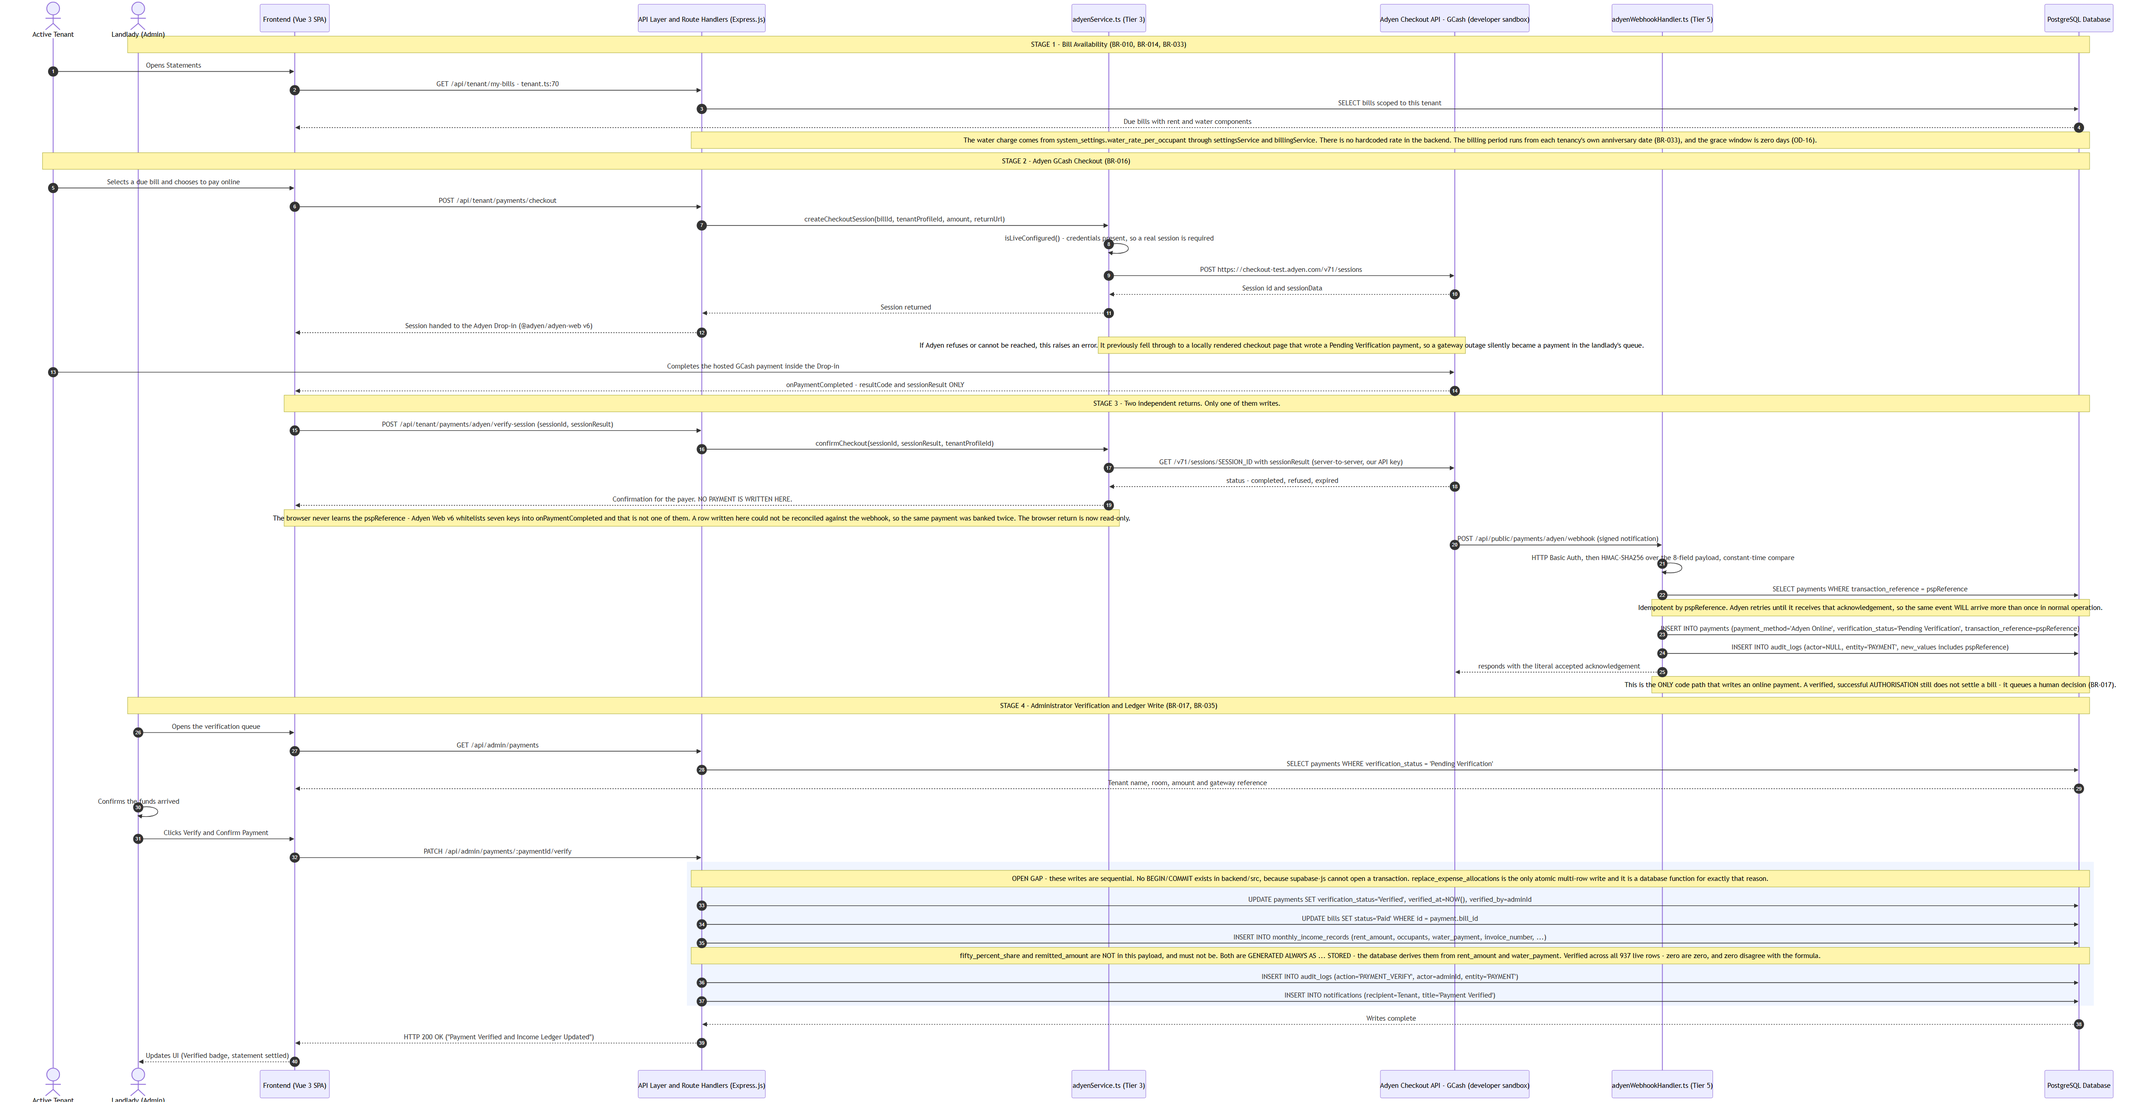
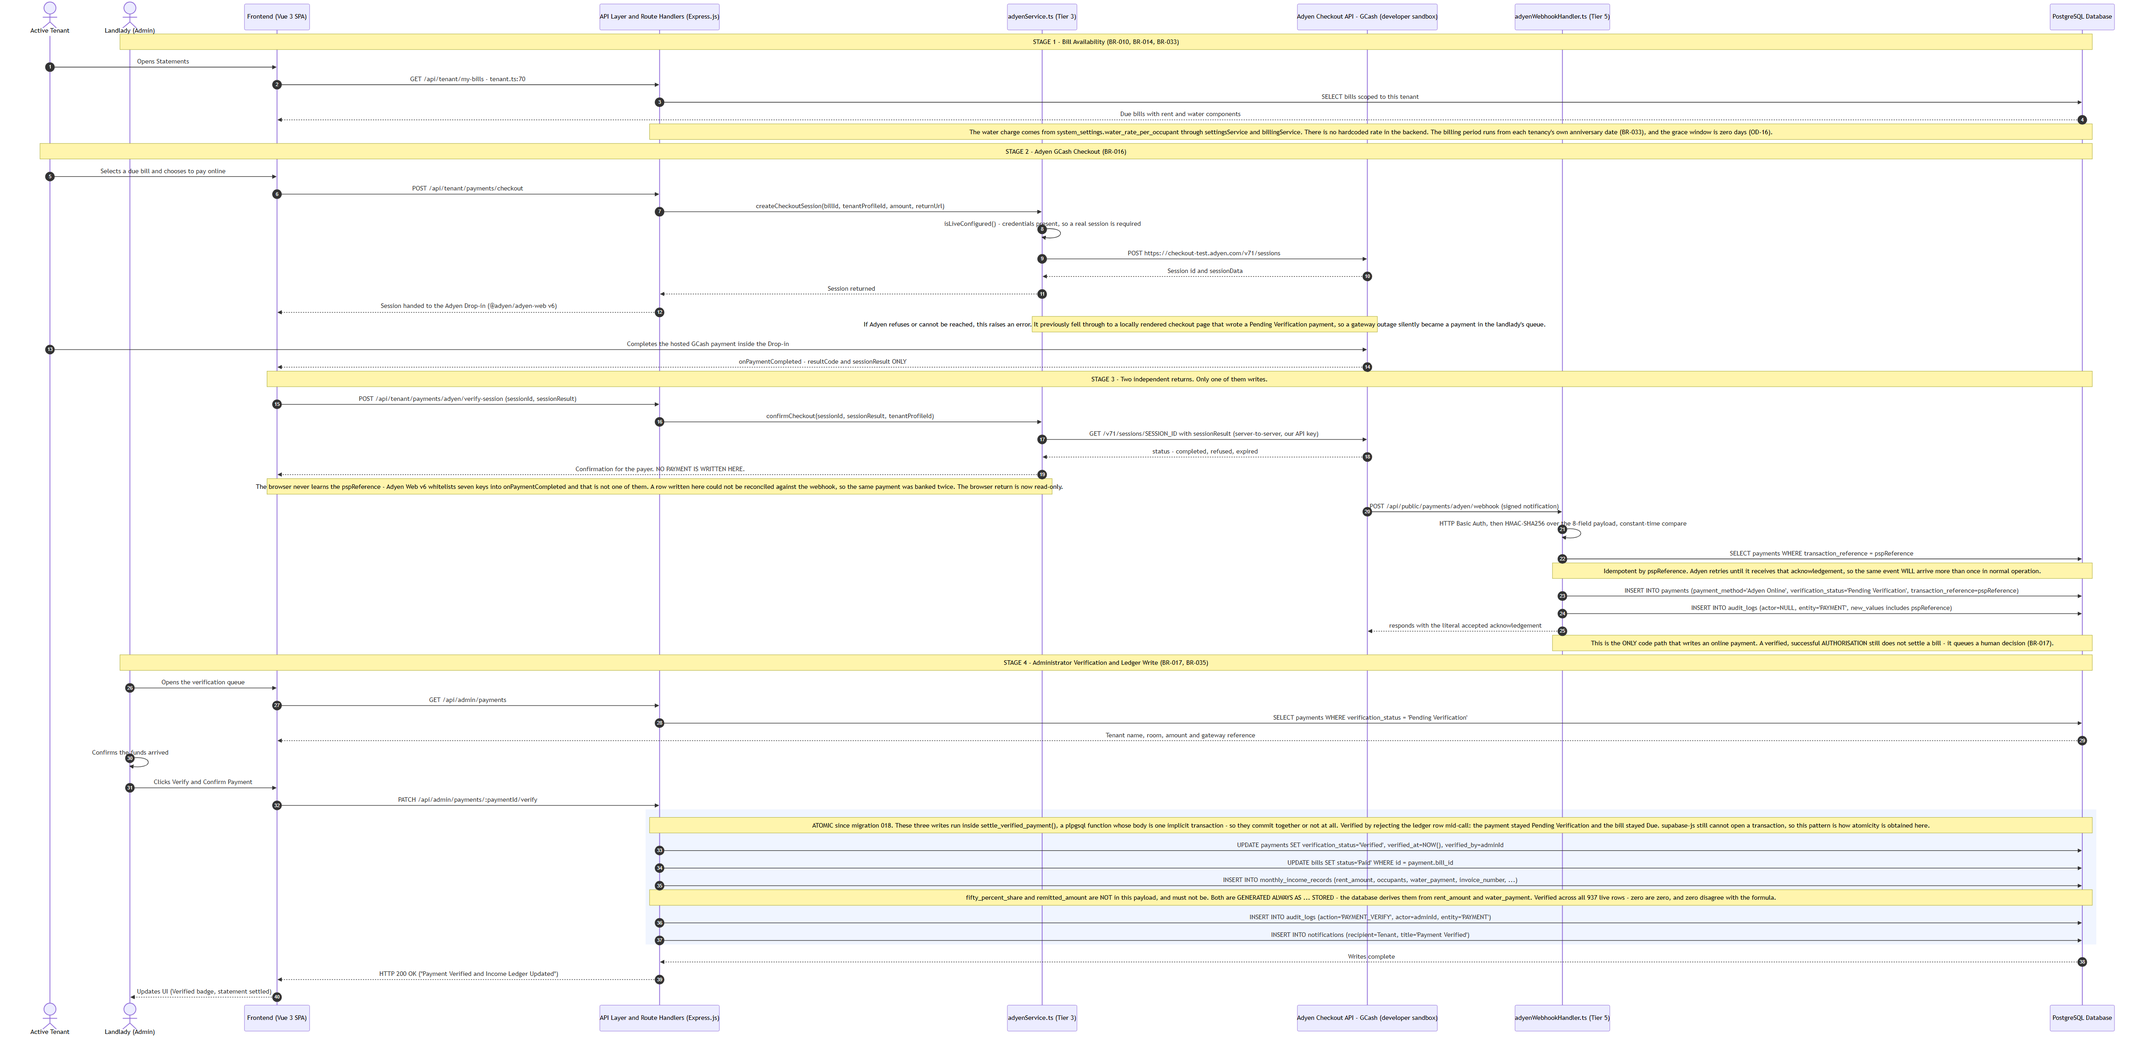
feat(payments): settling a payment is now atomic - migration 018
Verifying a payment is three writes that must all happen or none happen:

  1. UPDATE payments  SET verification_status = 'Verified', verified_by, verified_at
  2. UPDATE bills     SET status = 'Paid'
  3. INSERT INTO monthly_income_records

They were three PostgREST round trips with nothing joining them, because
supabase-js cannot open a transaction. If the third failed after the first two
had committed, the payment read Verified, the bill read Paid, and NO INCOME WAS
EVER RECORDED. Money collected, debt closed, ledger blank, and nothing on screen
to say so.

The third write fails for ordinary reasons: `contact_name` and `invoice_number`
are NOT NULL, `payment_method` is an enum, `rent_amount` carries a CHECK.

Migration 018 adds `settle_verified_payment()`. A plpgsql body executes inside one
implicit transaction, so all three commit together or roll back together. Same
remedy migration 010 applied to expense allocations, for the same reason. The
route computes every figure BEFORE anything is written and then makes one call.

Proved against the live database rather than argued. Deliberately rejecting the
ledger row mid-call left the payment at Pending Verification and the bill at Due,
with the income count unchanged. A valid settlement wrote all three. A retry
returned already_done and did not double-post. Then end to end through the real
endpoint: PATCH verify -> 200, payment Verified with verified_by and verified_at
[…]

diff --git a/backend/src/routes/admin.ts b/backend/src/routes/admin.ts
@@ -952,29 +952,57 @@ router.patch(
     const isVerified = parsed.data.verification_status === 'Verified';
     const isRejected = parsed.data.verification_status === 'Rejected';
 
-    const { data: after, error } = await db
-      .from('payments')
-      .update({
-        verification_status: parsed.data.verification_status,
-        verified_at: isVerified ? new Date().toISOString() : null,
-        verified_by: isVerified ? req.user!.profileId : null,
-      })
-      .eq('id', req.params.paymentId)
-      .select('*')
-      .single();
+    /**
+     * VERIFYING A PAYMENT IS THREE WRITES, AND THEY MUST NOT HAPPEN SEPARATELY.
+     *
+     * Marking the payment Verified, marking its bill Paid, and writing the
+     * monthly income row used to be three PostgREST round trips with nothing
+     * joining them, because supabase-js cannot open a transaction. If the third
+     * failed - `contact_name` and `invoice_number` are NOT NULL, `payment_method`
+     * is an enum, `rent_amount` carries a CHECK - the first two had already
+     * committed. The payment read Verified, the bill read Paid, and no income was
+     * ever recorded. Money collected, debt closed, ledger blank, and nothing on
+     * screen to say so.
+     *
+     * Migration 018 added `settle_verified_payment()`. A plpgsql body runs in one
+     * implicit transaction, so all three commit together or none do. Verified
+     * against the live database by deliberately rejecting the ledger row: the
+     * payment stayed Pending Verification and the bill stayed Due.
+     *
+     * The figures are therefore computed BEFORE anything is written, and the
+     * payment update moved inside that call. Rejection is left as a direct
+     * update - it touches no ledger row, so there is nothing to tear.
+     */
+    let after: Record<string, unknown> | null = null;
 
-    if (error) throw ApiError.internal(error.message);
+    if (!isVerified) {
+      const { data: updated, error } = await db
+        .from('payments')
+        .update({
+          verification_status: parsed.data.verification_status,
+          verified_at: null,
+          verified_by: null,
+        })
+        .eq('id', req.params.paymentId)
+        .select('*')
+        .single();
+
+      if (error) throw ApiError.internal(error.message);
+      after = updated;
+    }
 
     // System Bible Section 22 — "Payment verified -> financial records update."
     if (isVerified) {
+      // Read-only: the bill's own figures are the terms the tenant was invoiced
+      // under, so they are preferred over anything derived. Nothing is written
+      // until the single call at the end of this block.
       let billData: any = null;
       if (before.bill_id) {
         const { data: b } = await db
           .from('bills')
-          .update({ status: 'Paid', updated_at: new Date().toISOString() })
-          .eq('id', before.bill_id)
           .select('*')
-          .single();
+          .eq('id', before.bill_id)
+          .maybeSingle();
         billData = b;
       }
 
@@ -1038,29 +1066,50 @@ router.patch(
         .eq('transaction_reference', before.transaction_reference)
         .maybeSingle();
 
-      if (!existingIncome && before.transaction_reference) {
-        const { error: insertError } = await db.from('monthly_income_records').insert({
-          room_id: before.room_id,
-          tenant_profile_id: before.tenant_profile_id,
-          assignment_id: assignment?.id || null,
-          year,
-          month,
-          date_paid: datePaid.toISOString().split('T')[0],
-          contact_name: tenantProfile?.full_name || 'Online Resident',
-          invoice_number: before.transaction_reference,
-          rent_period_start: rentPeriodStart,
-          rent_period_end: rentPeriodEnd,
-          rent_amount: rentAmount,
-          occupants: occupants,
-          water_payment: waterAmount,
-          payment_method: 'GCash',
-          transaction_reference: before.transaction_reference,
-        });
+      // `payment_method` is NOT hardcoded. It used to read 'GCash', so an
+      // `Adyen Online` settlement was written into the ledger as GCash. The
+      // function falls back to the payment's own method.
+      const incomePayload =
+        !existingIncome && before.transaction_reference
+          ? {
+              room_id: before.room_id,
+              tenant_profile_id: before.tenant_profile_id,
+              assignment_id: assignment?.id ?? null,
+              year,
+              month,
+              date_paid: datePaid.toISOString().split('T')[0],
+              contact_name: tenantProfile?.full_name || 'Online Resident',
+              invoice_number: before.transaction_reference,
+              rent_period_start: rentPeriodStart,
+              rent_period_end: rentPeriodEnd,
+              rent_amount: rentAmount,
+              occupants,
+              water_payment: waterAmount,
+              transaction_reference: before.transaction_reference,
+            }
+          : null;
 
-        if (insertError) {
-          throw ApiError.internal(`Failed to insert monthly income record: ${insertError.message}`);
-        }
+      // All three writes, one transaction. Idempotent by verification_status, so
+      // a retry cannot double-post a ledger row.
+      const { error: settleError } = await db.rpc('settle_verified_payment', {
+        p_payment_id: req.params.paymentId,
+        p_verified_by: req.user!.profileId,
+        p_income: incomePayload,
+      });
+
+      if (settleError) {
+        throw ApiError.internal(
+          `Could not settle this payment: ${settleError.message}. ` +
+            'Nothing was changed - the payment is still awaiting verification.'
+        );
       }
+
+      const { data: settled } = await db
+        .from('payments')
+        .select('*')
+        .eq('id', req.params.paymentId)
+        .single();
+      after = settled;
 
       // Notify the tenant that their payment is settled
       await db.from('notifications').insert({

diff --git a/docs/claude_pipeline/outputs/PHASE1_TRACEABILITY_MATRIX.md b/docs/claude_pipeline/outputs/PHASE1_TRACEABILITY_MATRIX.md
@@ -285,7 +285,7 @@ Four defects explain most of the PARTIAL and MISSING rows. All are Phase 2 and P
 | 1 | ~~**`system_settings` is seeded correctly and read by zero lines of backend code.**~~ **CLOSED 2026-09-13.** **CLOSED 2026-09-13.** `services/settingsService.ts` is a typed cached reader over the table and `services/billingService.ts` applies the values through it. No hardcoded rate or grace window remains in `backend/src`. | `services/settingsService.ts`, `services/billingService.ts` | FR-013, FR-034, FR-036 |
 | 2 | ~~**Two derived financial columns are computed and then dropped.**~~ **WITHDRAWN 2026-09-13 — never a defect.** Both are `GENERATED ALWAYS AS … STORED`; PostgreSQL maintains them and refuses any write naming them, so their absence from the INSERTs is required. All 937 rows are correct. See `PHASE2_ERD_AND_DATA_DICTIONARY.md` section 6, which verifies this against all 937 live rows. Per BR-035 the 50% share is exactly half of the row's Rent Amount, system-computed and never entered manually, with water, GBG fee and deposit excluded from it; per BR-038 the Remitted Amount is Rent Amount + Water Payment. Both figures are carried over from Column 6 of the landlady's existing source spreadsheet and are retained so that the digital ledger reconciles line-for-line with her historical records. | `admin.ts:1102`–`admin.ts:1128` | FR-031, FR-032 |
 | 3 | **No aggregation layer exists.** No endpoint returns a subtotal, a total, a rollforward or a reconciliation. Every derived figure is computed in the browser. | No aggregate route in any of the five route modules; `ANALYTICS_VIEW` (`rbac.ts:75`) and `REPORT_EXPORT` (`rbac.ts:76`) guard nothing | FR-019, FR-020, FR-028, FR-031, FR-039, FR-040, FR-042, FR-044 |
-| 4 | **No transaction boundary exists.** `BEGIN`/`COMMIT` appears nowhere in `backend/src`. Multi-table writes — income record plus payments plus bill status; expense header plus allocations — are sequential and independently failable. Atomicity is a Phase 3 design target, not an implemented property. | `admin.ts:1112`–`admin.ts:1190`; `admin.ts:1471`–`admin.ts:1477` | FR-017, FR-038 (residual risk) |
+| 4 | ~~**No transaction boundary exists.**~~ **CLOSED 2026-09-14.** Both multi-table writes the row named now run inside database functions, each of which executes in one implicit transaction: `replace_expense_allocations()` (migration `010`) for the expense header plus allocations, and `settle_verified_payment()` (migration `018`) for the payment, its bill and the income row. Proved by rejecting the ledger row mid-call - the payment stayed Pending Verification and the bill stayed Due. supabase-js still cannot open a transaction, so this is a pattern to follow rather than a capability gained. | `database/migrations/018_atomic_payment_settlement.sql` | — |
 
 **No performance figure is asserted anywhere in this matrix.** Claims of "256MB RAM", "sub-50ms response" and "100% data consistency" that appear in previously submitted documents are unsubstantiated; they are omitted here rather than repeated, and any comparable property is stated as a design target when it is stated at all.
 
@@ -328,7 +328,7 @@ and a one-line remediation.
 | A-4 | **Grace period hardcoded at 10 days**, contradicting the seeded 7 and BR-012 | `tenant.ts:453` writes `now + 10 days`; `system_settings.grace_period_days = 7` (`FULL_DATABASE_SCHEMA.sql:458`) | **Phase 3** | Correct `tenant.ts:453` to read the seeded value; delivered together with FR-013. |
 | A-5 | ~~`fifty_percent_share` and `remitted_amount` are computed but never written~~ **WITHDRAWN** | `is_generated = 'ALWAYS'` for both in `information_schema.columns`; all 937 rows correct | **Withdrawn** | Nothing to do, and the remediation this row proposed — adding both columns to the INSERT payloads — **would have broken every write**, because PostgreSQL rejects an INSERT naming a generated column. See `PHASE2_ERD_AND_DATA_DICTIONARY.md` section 6, which verifies this against all 937 live rows. |
 | A-6 | **Foreign-key posture on the ledger tables** is 17 `ON DELETE CASCADE`, 4 `SET NULL`, 0 `RESTRICT` | Counted in `database/FULL_DATABASE_SCHEMA.sql`; for example `monthly_income_records.room_id … ON DELETE CASCADE` (`:257`) | **Phase 2** | Apply the proposed migration `005_ledger_fk_restrict.sql`, moving `room_id` / `tenant_profile_id` on `bills`, `payments` and `monthly_income_records` to `RESTRICT`. `RESTRICT` is a proposal and is never stated as current fact. |
-| A-7 | **No transaction boundary exists.** `BEGIN`/`COMMIT` appears nowhere in `backend/src` | Repository-wide grep for transaction control returns nothing | **Phase 3** | Wrap the multi-table verification write and the expense header-plus-allocations write in a single transaction as the services are extracted. |
+| A-7 | ~~No transaction boundary exists~~ **CLOSED** | `settle_verified_payment()` and `replace_expense_allocations()`, both plpgsql, both one implicit transaction | **Done (2026-09-14)** | Done exactly as this row proposed - the multi-table verification write and the expense header-plus-allocations write are each wrapped in a single transaction. |
 | A-8 | **Two payment endpoints are unauthenticated** | `GET /api/public/payments/mock-gateway` (`public.ts:201`); `POST /api/public/payments/mock-gateway/complete` (`public.ts:852`) | **RESOLVED (Phase 3)** | Both are closed wherever a gateway is configured; the webhook that replaced them is signature-verified. See the note under G-7 in `PHASE1_DFD_TRACEABILITY.md`. |
 | A-9 | **The penthouse floor value.** `PH` is seeded `floor = 3`; the owner confirms it occupies its own rooftop level directly above floor 3 | `FULL_DATABASE_SCHEMA.sql:499` | **Phase 2** | Incremental migration sets `PH` to level 4. `database/FULL_DATABASE_SCHEMA.sql` is not edited in place. |
 | A-10 | **`rooms.floor` reconciliation.** The seeded per-unit `floor` values were populated for development rather than surveyed | Same seed block as A-9 | **Phase 2** | Data-cleanup migration reconciles each unit’s `floor` to the owner’s survey, which is authoritative for the published per-floor tally. |

diff --git a/docs/claude_pipeline/outputs/PHASE2_SECURITY_AND_RLS.md b/docs/claude_pipeline/outputs/PHASE2_SECURITY_AND_RLS.md
@@ -349,7 +349,7 @@ been closed; the wording below says which, and what closed them.
 | 1 | **Two payment endpoints carried no authentication middleware.** | **Closed.** They were the local checkout page and its completion POST. Both now refuse to serve in any environment where `isLiveConfigured()` is true, so they do not exist in a configured deployment. The Adyen webhook is unauthenticated by Express *by necessity* - a gateway holds no JWT - and is instead protected by Basic Auth plus an HMAC-SHA256 signature over Adyen's own payload, verified in constant time. | `backend/src/routes/public.ts` (`refuseWhenGatewayConfigured`), `services/adyenWebhook.ts` |
 | 2 | **`system_settings` was read by zero lines of backend code.** | **Closed.** `services/settingsService.ts` is a typed cached reader, and `billingService` applies `water_rate_per_occupant` and `grace_period_days` through it. The public listing reads the water rate over `GET /api/public/rates` rather than restating it. | `services/settingsService.ts`, `services/billingService.ts`, `routes/public.ts` |
 | 3 | **Supabase Storage is not referenced by any backend code.** | **Open.** Photographs are stored as base64 data URLs directly in `room_photos.file_url`. That works and is access-controlled the same way every other column is, but it is not a storage integration and there is no bucket policy to describe. One of the 33 units has a photograph on file. | — |
-| 4 | **No transaction boundary in application code.** | **Open.** `replace_expense_allocations` (migration `010`) is still the only atomic multi-row write, and it is a database function precisely because supabase-js cannot open a transaction. Every other multi-step write can half-complete. | — |
+| 4 | **No transaction boundary in application code.** | **Mostly closed.** **CLOSED 2026-09-14.** Migration `018` added `settle_verified_payment()`, a plpgsql function whose body runs in one implicit transaction. The payment verification path - mark the payment Verified, mark its bill Paid, write the monthly income row - now commits all three together or none. Proved against the live database by deliberately rejecting the ledger row: the payment stayed `Pending Verification` and the bill stayed `Due`. Idempotent by `verification_status`, so a retry cannot double-post. This is the same remedy migration `010` applied to expense allocations. **Still open elsewhere:** supabase-js remains unable to open a transaction, so any multi-step write NOT routed through a database function can still half-complete. | `database/migrations/018_atomic_payment_settlement.sql` |
 
 ### 7.1 A fifth gap, found later and closed: the self-check that passed when broken
 
@@ -362,7 +362,7 @@ twice more in this codebase and both are now fixed:
   failed, because the failure was caught and logged rather than surfaced.
 - `GET /api/health` returned raw Supabase error text to unauthenticated callers.
 
-Gap 4 is the one to raise first if the panel asks what is still weak.
+Gap 3 is now the one to raise first if the panel asks what is still weak: photographs are base64 data URLs in a column rather than a storage integration, so there is no bucket policy to describe. Gap 4 was the previous answer and is largely closed - the two payment paths that could half-complete now run inside database functions - but supabase-js still cannot open a transaction, so any future multi-step write that skips that pattern reintroduces the problem.
 
 ---
 

diff --git a/CONTINUE_HERE.md b/CONTINUE_HERE.md
@@ -467,7 +467,7 @@ In the order I would take them.
 | :-- | :--- | :--- |
 | 1 | **Confirm the Adyen webhook end to end on the new machine.** Start the tunnel, update the webhook URL, press Test, then pay a real test bill with GCash and watch a `Pending Verification` row appear. | It is the only writer now. If it is not working, online payments silently never record. |
 | 2 | **BR-039** — the API does not enforce that advance rent equals the rent at move-in. The form pre-fills it from the live price, but the rule is not enforced. | The last remaining genuine violation. |
-| 3 | **No transaction boundary anywhere in `backend/src`.** `replace_expense_allocations` is the only atomic multi-row write, and it is a database function because supabase-js cannot open a transaction. Every other multi-step write can half-complete. | The honest answer if the panel asks what is still weak. |
+| ~~3~~ | ~~**No transaction boundary anywhere in `backend/src`.**~~ **DONE 2026-09-14.** Migration `018` added `settle_verified_payment()`; the payment, its bill and the income row now commit together or not at all. supabase-js still cannot open a transaction, so any NEW multi-step write must follow the same database-function pattern. | — |
 | ~~4~~ | ~~**No Overdue transition.**~~ **DONE 2026-09-14.** `billingService.isOverdue()` is wired into both bill endpoints, which return `effective_status` derived from the due date. FR-013 is IMPLEMENTED; BR-011 is Enforced. | — |
 | 5 | **Service extraction.** 131 of 164 database calls still sit in route handlers; `admin.ts` is 2,263 lines. Six of the planned services still do not exist. | The architecture's stated target. Not required for the defense. |
 | 6 | Tell teammates the demo passwords changed, and have each create their own Supabase secret key. | Housekeeping from the credential rotation. |

diff --git a/docs/diagrams/DIAGRAM_SOURCE.md b/docs/diagrams/DIAGRAM_SOURCE.md
@@ -1332,7 +1332,7 @@ sequenceDiagram
     Client->>API: PATCH /api/admin/payments/:paymentId/verify
 
     rect rgb(240, 245, 255)
-    Note over API, DB: OPEN GAP - these writes are sequential. No BEGIN/COMMIT exists in backend/src, because supabase-js cannot open a transaction. replace_expense_allocations is the only atomic multi-row write and it is a database function for exactly that reason.
+    Note over API, DB: ATOMIC since migration 018. These three writes run inside settle_verified_payment(), a plpgsql function whose body is one implicit transaction - so they commit together or not at all. Verified by rejecting the ledger row mid-call: the payment stayed Pending Verification and the bill stayed Due. supabase-js still cannot open a transaction, so this pattern is how atomicity is obtained here.
     API->>DB: UPDATE payments SET verification_status='Verified', verified_at=NOW(), verified_by=adminId
     API->>DB: UPDATE bills SET status='Paid' WHERE id = payment.bill_id
     API->>DB: INSERT INTO monthly_income_records (rent_amount, occupants, water_payment, invoice_number, ...)
